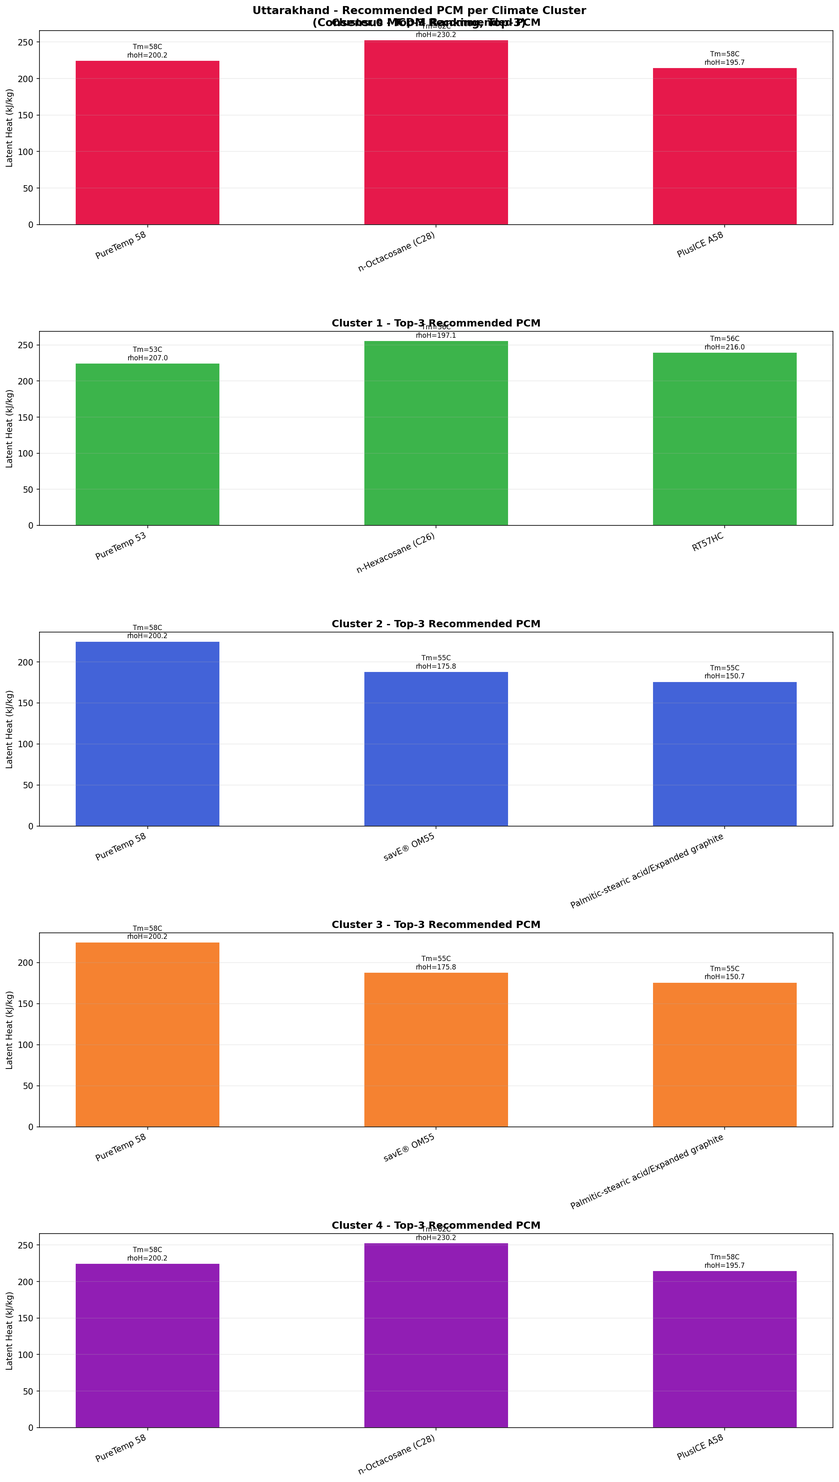
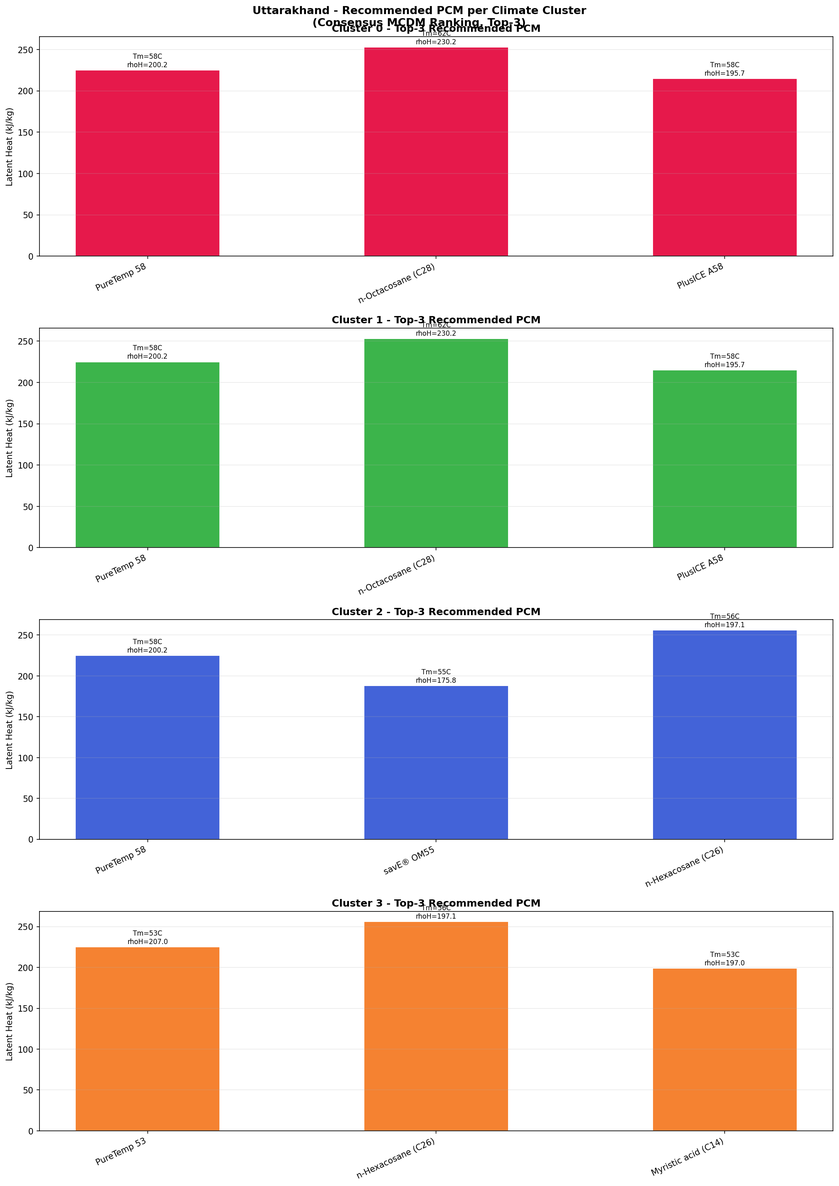
chore(plots): refresh Uttarakhand recommended PCM summary plot

diff --git a/public/plots/uttarakhand/13_recommended_pcm_summary_interactive.html b/public/plots/uttarakhand/13_recommended_pcm_summary_interactive.html
@@ -6,6 +6,6 @@
 </head>
 <body>
     <div style="height:550px; width:100%;">                        <script>window.PlotlyConfig = {MathJaxConfig: 'local'};</script>
-        <script charset="utf-8" src="https://cdn.plot.ly/plotly-4.1.1.min.js" integrity="sha256-O24V1F27f8pb0glCkelh3cVHLNiHAJ5gCaVtq2aNch8=" crossorigin="anonymous"></script>                <div id="e034c705-f220-4712-8a65-266319314120" class="plotly-graph-div" style="height:100%; width:100%;"></div>            <script>                window.PLOTLYENV=window.PLOTLYENV || {};                                if (document.getElementById("e034c705-f220-4712-8a65-266319314120")) {                    Plotly.newPlot(                        "e034c705-f220-4712-8a65-266319314120",                        [{"alignmentgroup":"True","customdata":{"dtype":"f8","bdata":"AAAAAAAATUAAAAAAAAhpQJqZmZmZmck\u002fAAAAAABQmUAAAAAAAABNQAAAAAAACGlAmpmZmZmZyT8AAAAAAFCZQAAAAAAAAE1AAAAAAAAIaUCamZmZmZnJPwAAAAAAUJlAAAAAAAAATUAAAAAAAAhpQJqZmZmZmck\u002fAAAAAABQmUA=","shape":"4, 4"},"hovertemplate":"PCM=PureTemp 58\u003cbr\u003eCluster=%{x}\u003cbr\u003eLatent Heat (kJ\u002fkg)=%{y}\u003cbr\u003eTm_C=%{customdata[0]}\u003cbr\u003erho_H_MJ_m3=%{customdata[1]}\u003cbr\u003eTC_W_mK=%{customdata[2]}\u003cbr\u003ecycles_tested=%{customdata[3]}\u003cextra\u003e\u003c\u002fextra\u003e","legendgroup":"PureTemp 58","marker":{"color":"rgb(102,194,165)","pattern":{"shape":""}},"name":"PureTemp 58","offsetgroup":"PureTemp 58","orientation":"v","showlegend":true,"textposition":"auto","x":["0","2","3","4"],"xaxis":"x","y":{"dtype":"f8","bdata":"AAAAAAAgbEAAAAAAACBsQAAAAAAAIGxAAAAAAAAgbEA="},"yaxis":"y","type":"bar"},{"alignmentgroup":"True","customdata":{"dtype":"f8","bdata":"zczMzMzMTkCPwvUoXMdsQHWTGARWDtE\u002fAAAAAAC0mEDNzMzMzMxOQI\u002fC9Shcx2xAdZMYBFYO0T8AAAAAALSYQA==","shape":"2, 4"},"hovertemplate":"PCM=n-Octacosane (C28)\u003cbr\u003eCluster=%{x}\u003cbr\u003eLatent Heat (kJ\u002fkg)=%{y}\u003cbr\u003eTm_C=%{customdata[0]}\u003cbr\u003erho_H_MJ_m3=%{customdata[1]}\u003cbr\u003eTC_W_mK=%{customdata[2]}\u003cbr\u003ecycles_tested=%{customdata[3]}\u003cextra\u003e\u003c\u002fextra\u003e","legendgroup":"n-Octacosane (C28)","marker":{"color":"rgb(252,141,98)","pattern":{"shape":""}},"name":"n-Octacosane (C28)","offsetgroup":"n-Octacosane (C28)","orientation":"v","showlegend":true,"textposition":"auto","x":["0","4"],"xaxis":"x","y":{"dtype":"f8","bdata":"AAAAAACgb0AAAAAAAKBvQA=="},"yaxis":"y","type":"bar"},{"alignmentgroup":"True","customdata":{"dtype":"f8","bdata":"AAAAAAAATUDNzMzMzHRoQClcj8L1KMw\u002fAAAAAAC0mEAAAAAAAABNQM3MzMzMdGhAKVyPwvUozD8AAAAAALSYQA==","shape":"2, 4"},"hovertemplate":"PCM=PlusICE A58\u003cbr\u003eCluster=%{x}\u003cbr\u003eLatent Heat (kJ\u002fkg)=%{y}\u003cbr\u003eTm_C=%{customdata[0]}\u003cbr\u003erho_H_MJ_m3=%{customdata[1]}\u003cbr\u003eTC_W_mK=%{customdata[2]}\u003cbr\u003ecycles_tested=%{customdata[3]}\u003cextra\u003e\u003c\u002fextra\u003e","legendgroup":"PlusICE A58","marker":{"color":"rgb(141,160,203)","pattern":{"shape":""}},"name":"PlusICE A58","offsetgroup":"PlusICE A58","orientation":"v","showlegend":true,"textposition":"auto","x":["0","4"],"xaxis":"x","y":{"dtype":"f8","bdata":"AAAAAADgakAAAAAAAOBqQA=="},"yaxis":"y","type":"bar"},{"alignmentgroup":"True","customdata":{"dtype":"f8","bdata":"AAAAAACASkAAAAAAAOBpQJqZmZmZmck\u002fAAAAAABYmkA=","shape":"1, 4"},"hovertemplate":"PCM=PureTemp 53\u003cbr\u003eCluster=%{x}\u003cbr\u003eLatent Heat (kJ\u002fkg)=%{y}\u003cbr\u003eTm_C=%{customdata[0]}\u003cbr\u003erho_H_MJ_m3=%{customdata[1]}\u003cbr\u003eTC_W_mK=%{customdata[2]}\u003cbr\u003ecycles_tested=%{customdata[3]}\u003cextra\u003e\u003c\u002fextra\u003e","legendgroup":"PureTemp 53","marker":{"color":"rgb(231,138,195)","pattern":{"shape":""}},"name":"PureTemp 53","offsetgroup":"PureTemp 53","orientation":"v","showlegend":true,"textposition":"auto","x":["1"],"xaxis":"x","y":{"dtype":"f8","bdata":"AAAAAAAgbEA="},"yaxis":"y","type":"bar"},{"alignmentgroup":"True","customdata":{"dtype":"f8","bdata":"AAAAAABATECkcD0K16NoQBBYObTIds4\u002fAAAAAADwlUA=","shape":"1, 4"},"hovertemplate":"PCM=n-Hexacosane (C26)\u003cbr\u003eCluster=%{x}\u003cbr\u003eLatent Heat (kJ\u002fkg)=%{y}\u003cbr\u003eTm_C=%{customdata[0]}\u003cbr\u003erho_H_MJ_m3=%{customdata[1]}\u003cbr\u003eTC_W_mK=%{customdata[2]}\u003cbr\u003ecycles_tested=%{customdata[3]}\u003cextra\u003e\u003c\u002fextra\u003e","legendgroup":"n-Hexacosane (C26)","marker":{"color":"rgb(166,216,84)","pattern":{"shape":""}},"name":"n-Hexacosane (C26)","offsetgroup":"n-Hexacosane (C26)","orientation":"v","showlegend":true,"textposition":"auto","x":["1"],"xaxis":"x","y":{"dtype":"f8","bdata":"AAAAAAAAcEA="},"yaxis":"y","type":"bar"},{"alignmentgroup":"True","customdata":{"dtype":"f8","bdata":"AAAAAABATEAAAAAAAABrQGQ730+Nl84\u002fAAAAAADwlUA=","shape":"1, 4"},"hovertemplate":"PCM=RT57HC\u003cbr\u003eCluster=%{x}\u003cbr\u003eLatent Heat (kJ\u002fkg)=%{y}\u003cbr\u003eTm_C=%{customdata[0]}\u003cbr\u003erho_H_MJ_m3=%{customdata[1]}\u003cbr\u003eTC_W_mK=%{customdata[2]}\u003cbr\u003ecycles_tested=%{customdata[3]}\u003cextra\u003e\u003c\u002fextra\u003e","legendgroup":"RT57HC","marker":{"color":"rgb(255,217,47)","pattern":{"shape":""}},"name":"RT57HC","offsetgroup":"RT57HC","orientation":"v","showlegend":true,"textposition":"auto","x":["1"],"xaxis":"x","y":{"dtype":"f8","bdata":"AAAAAAAAbkA="},"yaxis":"y","type":"bar"},{"alignmentgroup":"True","customdata":{"dtype":"f8","bdata":"AAAAAACAS0ApXI\u002fC9fhlQKRwPQrXo8A\u002fAAAAAABAn0AAAAAAAIBLQClcj8L1+GVApHA9CtejwD8AAAAAAECfQA==","shape":"2, 4"},"hovertemplate":"PCM=savE® OM55\u003cbr\u003eCluster=%{x}\u003cbr\u003eLatent Heat (kJ\u002fkg)=%{y}\u003cbr\u003eTm_C=%{customdata[0]}\u003cbr\u003erho_H_MJ_m3=%{customdata[1]}\u003cbr\u003eTC_W_mK=%{customdata[2]}\u003cbr\u003ecycles_tested=%{customdata[3]}\u003cextra\u003e\u003c\u002fextra\u003e","legendgroup":"savE® OM55","marker":{"color":"rgb(229,196,148)","pattern":{"shape":""}},"name":"savE® OM55","offsetgroup":"savE® OM55","orientation":"v","showlegend":true,"textposition":"auto","x":["2","3"],"xaxis":"x","y":{"dtype":"f8","bdata":"AAAAAACAZ0AAAAAAAIBnQA=="},"yaxis":"y","type":"bar"},{"alignmentgroup":"True","customdata":{"dtype":"f8","bdata":"mpmZmZmZS0CiRbbz\u002fdRiQHsUrkfhesQ\u002fAAAAAABAn0CamZmZmZlLQKJFtvP91GJAexSuR+F6xD8AAAAAAECfQA==","shape":"2, 4"},"hovertemplate":"PCM=Palmitic-stearic acid\u002fExpanded graphite\u003cbr\u003eCluster=%{x}\u003cbr\u003eLatent Heat (kJ\u002fkg)=%{y}\u003cbr\u003eTm_C=%{customdata[0]}\u003cbr\u003erho_H_MJ_m3=%{customdata[1]}\u003cbr\u003eTC_W_mK=%{customdata[2]}\u003cbr\u003ecycles_tested=%{customdata[3]}\u003cextra\u003e\u003c\u002fextra\u003e","legendgroup":"Palmitic-stearic acid\u002fExpanded graphite","marker":{"color":"rgb(179,179,179)","pattern":{"shape":""}},"name":"Palmitic-stearic acid\u002fExpanded graphite","offsetgroup":"Palmitic-stearic acid\u002fExpanded graphite","orientation":"v","showlegend":true,"textposition":"auto","x":["2","3"],"xaxis":"x","y":{"dtype":"f8","bdata":"AAAAAAAAZkAAAAAAAABmQA=="},"yaxis":"y","type":"bar"}],                        {"template":{"data":{"barpolar":[{"marker":{"line":{"color":"white","width":0.5},"pattern":{"fillmode":"overlay","size":10,"solidity":0.2}},"type":"barpolar"}],"bar":[{"error_x":{"color":"#2a3f5f"},"error_y":{"color":"#2a3f5f"},"marker":{"line":{"color":"white","width":0.5},"pattern":{"fillmode":"overlay","size":10,"solidity":0.2}},"type":"bar"}],"carpet":[{"aaxis":{"endlinecolor":"#2a3f5f","gridcolor":"#C8D4E3","linecolor":"#C8D4E3","minorgridcolor":"#C8D4E3","startlinecolor":"#2a3f5f"},"baxis":{"endlinecolor":"#2a3f5f","gridcolor":"#C8D4E3","linecolor":"#C8D4E3","minorgridcolor":"#C8D4E3","startlinecolor":"#2a3f5f"},"type":"carpet"}],"choropleth":[{"colorbar":{"outlinewidth":0,"ticks":""},"type":"choropleth"}],"contourcarpet":[{"colorbar":{"outlinewidth":0,"ticks":""},"type":"contourcarpet"}],"contour":[{"colorbar":{"outlinewidth":0,"ticks":""},"colorscale":[[0.0,"#0d0887"],[0.1111111111111111,"#46039f"],[0.2222222222222222,"#7201a8"],[0.3333333333333333,"#9c179e"],[0.4444444444444444,"#bd3786"],[0.5555555555555556,"#d8576b"],[0.6666666666666666,"#ed7953"],[0.7777777777777778,"#fb9f3a"],[0.8888888888888888,"#fdca26"],[1.0,"#f0f921"]],"type":"contour"}],"heatmap":[{"colorbar":{"outlinewidth":0,"ticks":""},"colorscale":[[0.0,"#0d0887"],[0.1111111111111111,"#46039f"],[0.2222222222222222,"#7201a8"],[0.3333333333333333,"#9c179e"],[0.4444444444444444,"#bd3786"],[0.5555555555555556,"#d8576b"],[0.6666666666666666,"#ed7953"],[0.7777777777777778,"#fb9f3a"],[0.8888888888888888,"#fdca26"],[1.0,"#f0f921"]],"type":"heatmap"}],"histogram2dcontour":[{"colorbar":{"outlinewidth":0,"ticks":""},"colorscale":[[0.0,"#0d0887"],[0.1111111111111111,"#46039f"],[0.2222222222222222,"#7201a8"],[0.3333333333333333,"#9c179e"],[0.4444444444444444,"#bd3786"],[0.5555555555555556,"#d8576b"],[0.6666666666666666,"#ed7953"],[0.7777777777777778,"#fb9f3a"],[0.8888888888888888,"#fdca26"],[1.0,"#f0f921"]],"type":"histogram2dcontour"}],"histogram2d":[{"colorbar":{"outlinewidth":0,"ticks":""},"colorscale":[[0.0,"#0d0887"],[0.1111111111111111,"#46039f"],[0.2222222222222222,"#7201a8"],[0.3333333333333333,"#9c179e"],[0.4444444444444444,"#bd3786"],[0.5555555555555556,"#d8576b"],[0.6666666666666666,"#ed7953"],[0.7777777777777778,"#fb9f3a"],[0.8888888888888888,"#fdca26"],[1.0,"#f0f921"]],"type":"histogram2d"}],"histogram":[{"marker":{"pattern":{"fillmode":"overlay","size":10,"solidity":0.2}},"type":"histogram"}],"mesh3d":[{"colorbar":{"outlinewidth":0,"ticks":""},"type":"mesh3d"}],"parcoords":[{"line":{"colorbar":{"outlinewidth":0,"ticks":""}},"type":"parcoords"}],"pie":[{"automargin":true,"type":"pie"}],"scatter3d":[{"line":{"colorbar":{"outlinewidth":0,"ticks":""}},"marker":{"colorbar":{"outlinewidth":0,"ticks":""}},"type":"scatter3d"}],"scattercarpet":[{"marker":{"colorbar":{"outlinewidth":0,"ticks":""}},"type":"scattercarpet"}],"scattergeo":[{"marker":{"colorbar":{"outlinewidth":0,"ticks":""}},"type":"scattergeo"}],"scattergl":[{"marker":{"colorbar":{"outlinewidth":0,"ticks":""}},"type":"scattergl"}],"scattermap":[{"marker":{"colorbar":{"outlinewidth":0,"ticks":""}},"type":"scattermap"}],"scatterpolargl":[{"marker":{"colorbar":{"outlinewidth":0,"ticks":""}},"type":"scatterpolargl"}],"scatterpolar":[{"marker":{"colorbar":{"outlinewidth":0,"ticks":""}},"type":"scatterpolar"}],"scatter":[{"fillpattern":{"fillmode":"overlay","size":10,"solidity":0.2},"type":"scatter"}],"scatterternary":[{"marker":{"colorbar":{"outlinewidth":0,"ticks":""}},"type":"scatterternary"}],"surface":[{"colorbar":{"outlinewidth":0,"ticks":""},"colorscale":[[0.0,"#0d0887"],[0.1111111111111111,"#46039f"],[0.2222222222222222,"#7201a8"],[0.3333333333333333,"#9c179e"],[0.4444444444444444,"#bd3786"],[0.5555555555555556,"#d8576b"],[0.6666666666666666,"#ed7953"],[0.7777777777777778,"#fb9f3a"],[0.8888888888888888,"#fdca26"],[1.0,"#f0f921"]],"type":"surface"}],"table":[{"cells":{"fill":{"color":"#EBF0F8"},"line":{"color":"white"}},"header":{"fill":{"color":"#C8D4E3"},"line":{"color":"white"}},"type":"table"}]},"layout":{"annotationdefaults":{"arrowcolor":"#2a3f5f","arrowhead":0,"arrowwidth":1},"autotypenumbers":"strict","coloraxis":{"colorbar":{"outlinewidth":0,"ticks":""}},"colorscale":{"diverging":[[0,"#8e0152"],[0.1,"#c51b7d"],[0.2,"#de77ae"],[0.3,"#f1b6da"],[0.4,"#fde0ef"],[0.5,"#f7f7f7"],[0.6,"#e6f5d0"],[0.7,"#b8e186"],[0.8,"#7fbc41"],[0.9,"#4d9221"],[1,"#276419"]],"sequential":[[0.0,"#0d0887"],[0.1111111111111111,"#46039f"],[0.2222222222222222,"#7201a8"],[0.3333333333333333,"#9c179e"],[0.4444444444444444,"#bd3786"],[0.5555555555555556,"#d8576b"],[0.6666666666666666,"#ed7953"],[0.7777777777777778,"#fb9f3a"],[0.8888888888888888,"#fdca26"],[1.0,"#f0f921"]],"sequentialminus":[[0.0,"#0d0887"],[0.1111111111111111,"#46039f"],[0.2222222222222222,"#7201a8"],[0.3333333333333333,"#9c179e"],[0.4444444444444444,"#bd3786"],[0.5555555555555556,"#d8576b"],[0.6666666666666666,"#ed7953"],[0.7777777777777778,"#fb9f3a"],[0.8888888888888888,"#fdca26"],[1.0,"#f0f921"]]},"colorway":["#636efa","#EF553B","#00cc96","#ab63fa","#FFA15A","#19d3f3","#FF6692","#B6E880","#FF97FF","#FECB52"],"font":{"color":"#2a3f5f"},"geo":{"bgcolor":"white","lakecolor":"white","landcolor":"white","showlakes":true,"showland":true,"subunitcolor":"#C8D4E3"},"hoverlabel":{"align":"left"},"hovermode":"closest","paper_bgcolor":"white","plot_bgcolor":"white","polar":{"angularaxis":{"gridcolor":"#EBF0F8","linecolor":"#EBF0F8","ticks":""},"bgcolor":"white","radialaxis":{"gridcolor":"#EBF0F8","linecolor":"#EBF0F8","ticks":""}},"scene":{"xaxis":{"backgroundcolor":"white","gridcolor":"#DFE8F3","gridwidth":2,"linecolor":"#EBF0F8","showbackground":true,"ticks":"","zerolinecolor":"#EBF0F8"},"yaxis":{"backgroundcolor":"white","gridcolor":"#DFE8F3","gridwidth":2,"linecolor":"#EBF0F8","showbackground":true,"ticks":"","zerolinecolor":"#EBF0F8"},"zaxis":{"backgroundcolor":"white","gridcolor":"#DFE8F3","gridwidth":2,"linecolor":"#EBF0F8","showbackground":true,"ticks":"","zerolinecolor":"#EBF0F8"}},"shapedefaults":{"line":{"color":"#2a3f5f"}},"ternary":{"aaxis":{"gridcolor":"#DFE8F3","linecolor":"#A2B1C6","ticks":""},"baxis":{"gridcolor":"#DFE8F3","linecolor":"#A2B1C6","ticks":""},"bgcolor":"white","caxis":{"gridcolor":"#DFE8F3","linecolor":"#A2B1C6","ticks":""}},"title":{"x":0.05},"xaxis":{"automargin":true,"gridcolor":"#EBF0F8","linecolor":"#EBF0F8","ticks":"","title":{"standoff":15},"zerolinecolor":"#EBF0F8","zerolinewidth":2},"yaxis":{"automargin":true,"gridcolor":"#EBF0F8","linecolor":"#EBF0F8","ticks":"","title":{"standoff":15},"zerolinecolor":"#EBF0F8","zerolinewidth":2}}},"xaxis":{"anchor":"y","domain":[0.0,1.0],"title":{"text":"Cluster"}},"yaxis":{"anchor":"x","domain":[0.0,1.0],"title":{"text":"Latent Heat (kJ\u002fkg)"}},"legend":{"title":{"text":"PCM"},"tracegroupgap":0},"title":{"text":"Uttarakhand - Recommended PCM by Climate Cluster (Top-3, Consensus Rank)"},"barmode":"group","height":550},                        {"responsive": true}                    )                };            </script>        </div>
+        <script charset="utf-8" src="https://cdn.plot.ly/plotly-4.0.0.min.js" integrity="sha256-FEYfO0yRyLtZCpnW0Dw/0DHKQO7Afrq3ml4+rBB818o=" crossorigin="anonymous"></script>                <div id="29ec0fc4-1b1f-4ab8-bfd5-f39e5bf95329" class="plotly-graph-div" style="height:100%; width:100%;"></div>            <script>                window.PLOTLYENV=window.PLOTLYENV || {};                                if (document.getElementById("29ec0fc4-1b1f-4ab8-bfd5-f39e5bf95329")) {                    Plotly.newPlot(                        "29ec0fc4-1b1f-4ab8-bfd5-f39e5bf95329",                        [{"alignmentgroup":"True","customdata":{"dtype":"f8","bdata":"AAAAAAAATUAAAAAAAAhpQJqZmZmZmck\u002fAAAAAABQmUAAAAAAAABNQAAAAAAACGlAmpmZmZmZyT8AAAAAAFCZQAAAAAAAAE1AAAAAAAAIaUCamZmZmZnJPwAAAAAAUJlA","shape":"3, 4"},"hovertemplate":"PCM=PureTemp 58\u003cbr\u003eCluster=%{x}\u003cbr\u003eLatent Heat (kJ\u002fkg)=%{y}\u003cbr\u003eTm_C=%{customdata[0]}\u003cbr\u003erho_H_MJ_m3=%{customdata[1]}\u003cbr\u003eTC_W_mK=%{customdata[2]}\u003cbr\u003ecycles_tested=%{customdata[3]}\u003cextra\u003e\u003c\u002fextra\u003e","legendgroup":"PureTemp 58","marker":{"color":"rgb(102,194,165)","pattern":{"shape":""}},"name":"PureTemp 58","offsetgroup":"PureTemp 58","orientation":"v","showlegend":true,"textposition":"auto","x":["0","1","2"],"xaxis":"x","y":{"dtype":"f8","bdata":"AAAAAAAgbEAAAAAAACBsQAAAAAAAIGxA"},"yaxis":"y","type":"bar"},{"alignmentgroup":"True","customdata":{"dtype":"f8","bdata":"zczMzMzMTkCPwvUoXMdsQHWTGARWDtE\u002fAAAAAAC0mEDNzMzMzMxOQI\u002fC9Shcx2xAdZMYBFYO0T8AAAAAALSYQA==","shape":"2, 4"},"hovertemplate":"PCM=n-Octacosane (C28)\u003cbr\u003eCluster=%{x}\u003cbr\u003eLatent Heat (kJ\u002fkg)=%{y}\u003cbr\u003eTm_C=%{customdata[0]}\u003cbr\u003erho_H_MJ_m3=%{customdata[1]}\u003cbr\u003eTC_W_mK=%{customdata[2]}\u003cbr\u003ecycles_tested=%{customdata[3]}\u003cextra\u003e\u003c\u002fextra\u003e","legendgroup":"n-Octacosane (C28)","marker":{"color":"rgb(252,141,98)","pattern":{"shape":""}},"name":"n-Octacosane (C28)","offsetgroup":"n-Octacosane (C28)","orientation":"v","showlegend":true,"textposition":"auto","x":["0","1"],"xaxis":"x","y":{"dtype":"f8","bdata":"AAAAAACgb0AAAAAAAKBvQA=="},"yaxis":"y","type":"bar"},{"alignmentgroup":"True","customdata":{"dtype":"f8","bdata":"AAAAAAAATUDNzMzMzHRoQClcj8L1KMw\u002fAAAAAAC0mEAAAAAAAABNQM3MzMzMdGhAKVyPwvUozD8AAAAAALSYQA==","shape":"2, 4"},"hovertemplate":"PCM=PlusICE A58\u003cbr\u003eCluster=%{x}\u003cbr\u003eLatent Heat (kJ\u002fkg)=%{y}\u003cbr\u003eTm_C=%{customdata[0]}\u003cbr\u003erho_H_MJ_m3=%{customdata[1]}\u003cbr\u003eTC_W_mK=%{customdata[2]}\u003cbr\u003ecycles_tested=%{customdata[3]}\u003cextra\u003e\u003c\u002fextra\u003e","legendgroup":"PlusICE A58","marker":{"color":"rgb(141,160,203)","pattern":{"shape":""}},"name":"PlusICE A58","offsetgroup":"PlusICE A58","orientation":"v","showlegend":true,"textposition":"auto","x":["0","1"],"xaxis":"x","y":{"dtype":"f8","bdata":"AAAAAADgakAAAAAAAOBqQA=="},"yaxis":"y","type":"bar"},{"alignmentgroup":"True","customdata":{"dtype":"f8","bdata":"AAAAAACAS0ApXI\u002fC9fhlQKRwPQrXo8A\u002fAAAAAABAn0A=","shape":"1, 4"},"hovertemplate":"PCM=savE® OM55\u003cbr\u003eCluster=%{x}\u003cbr\u003eLatent Heat (kJ\u002fkg)=%{y}\u003cbr\u003eTm_C=%{customdata[0]}\u003cbr\u003erho_H_MJ_m3=%{customdata[1]}\u003cbr\u003eTC_W_mK=%{customdata[2]}\u003cbr\u003ecycles_tested=%{customdata[3]}\u003cextra\u003e\u003c\u002fextra\u003e","legendgroup":"savE® OM55","marker":{"color":"rgb(231,138,195)","pattern":{"shape":""}},"name":"savE® OM55","offsetgroup":"savE® OM55","orientation":"v","showlegend":true,"textposition":"auto","x":["2"],"xaxis":"x","y":{"dtype":"f8","bdata":"AAAAAACAZ0A="},"yaxis":"y","type":"bar"},{"alignmentgroup":"True","customdata":{"dtype":"f8","bdata":"AAAAAABATECkcD0K16NoQBBYObTIds4\u002fAAAAAADwlUAAAAAAAEBMQKRwPQrXo2hAEFg5tMh2zj8AAAAAAPCVQA==","shape":"2, 4"},"hovertemplate":"PCM=n-Hexacosane (C26)\u003cbr\u003eCluster=%{x}\u003cbr\u003eLatent Heat (kJ\u002fkg)=%{y}\u003cbr\u003eTm_C=%{customdata[0]}\u003cbr\u003erho_H_MJ_m3=%{customdata[1]}\u003cbr\u003eTC_W_mK=%{customdata[2]}\u003cbr\u003ecycles_tested=%{customdata[3]}\u003cextra\u003e\u003c\u002fextra\u003e","legendgroup":"n-Hexacosane (C26)","marker":{"color":"rgb(166,216,84)","pattern":{"shape":""}},"name":"n-Hexacosane (C26)","offsetgroup":"n-Hexacosane (C26)","orientation":"v","showlegend":true,"textposition":"auto","x":["2","3"],"xaxis":"x","y":{"dtype":"f8","bdata":"AAAAAAAAcEAAAAAAAABwQA=="},"yaxis":"y","type":"bar"},{"alignmentgroup":"True","customdata":{"dtype":"f8","bdata":"AAAAAACASkAAAAAAAOBpQJqZmZmZmck\u002fAAAAAABYmkA=","shape":"1, 4"},"hovertemplate":"PCM=PureTemp 53\u003cbr\u003eCluster=%{x}\u003cbr\u003eLatent Heat (kJ\u002fkg)=%{y}\u003cbr\u003eTm_C=%{customdata[0]}\u003cbr\u003erho_H_MJ_m3=%{customdata[1]}\u003cbr\u003eTC_W_mK=%{customdata[2]}\u003cbr\u003ecycles_tested=%{customdata[3]}\u003cextra\u003e\u003c\u002fextra\u003e","legendgroup":"PureTemp 53","marker":{"color":"rgb(255,217,47)","pattern":{"shape":""}},"name":"PureTemp 53","offsetgroup":"PureTemp 53","orientation":"v","showlegend":true,"textposition":"auto","x":["3"],"xaxis":"x","y":{"dtype":"f8","bdata":"AAAAAAAgbEA="},"yaxis":"y","type":"bar"},{"alignmentgroup":"True","customdata":{"dtype":"f8","bdata":"AAAAAACASkC4HoXrUaBoQGnn+6nx0s0\u002fAAAAAABYmkA=","shape":"1, 4"},"hovertemplate":"PCM=Myristic acid (C14)\u003cbr\u003eCluster=%{x}\u003cbr\u003eLatent Heat (kJ\u002fkg)=%{y}\u003cbr\u003eTm_C=%{customdata[0]}\u003cbr\u003erho_H_MJ_m3=%{customdata[1]}\u003cbr\u003eTC_W_mK=%{customdata[2]}\u003cbr\u003ecycles_tested=%{customdata[3]}\u003cextra\u003e\u003c\u002fextra\u003e","legendgroup":"Myristic acid (C14)","marker":{"color":"rgb(229,196,148)","pattern":{"shape":""}},"name":"Myristic acid (C14)","offsetgroup":"Myristic acid (C14)","orientation":"v","showlegend":true,"textposition":"auto","x":["3"],"xaxis":"x","y":{"dtype":"f8","bdata":"AAAAAADgaEA="},"yaxis":"y","type":"bar"}],                        {"template":{"data":{"barpolar":[{"marker":{"line":{"color":"white","width":0.5},"pattern":{"fillmode":"overlay","size":10,"solidity":0.2}},"type":"barpolar"}],"bar":[{"error_x":{"color":"#2a3f5f"},"error_y":{"color":"#2a3f5f"},"marker":{"line":{"color":"white","width":0.5},"pattern":{"fillmode":"overlay","size":10,"solidity":0.2}},"type":"bar"}],"carpet":[{"aaxis":{"endlinecolor":"#2a3f5f","gridcolor":"#C8D4E3","linecolor":"#C8D4E3","minorgridcolor":"#C8D4E3","startlinecolor":"#2a3f5f"},"baxis":{"endlinecolor":"#2a3f5f","gridcolor":"#C8D4E3","linecolor":"#C8D4E3","minorgridcolor":"#C8D4E3","startlinecolor":"#2a3f5f"},"type":"carpet"}],"choropleth":[{"colorbar":{"outlinewidth":0,"ticks":""},"type":"choropleth"}],"contourcarpet":[{"colorbar":{"outlinewidth":0,"ticks":""},"type":"contourcarpet"}],"contour":[{"colorbar":{"outlinewidth":0,"ticks":""},"colorscale":[[0.0,"#0d0887"],[0.1111111111111111,"#46039f"],[0.2222222222222222,"#7201a8"],[0.3333333333333333,"#9c179e"],[0.4444444444444444,"#bd3786"],[0.5555555555555556,"#d8576b"],[0.6666666666666666,"#ed7953"],[0.7777777777777778,"#fb9f3a"],[0.8888888888888888,"#fdca26"],[1.0,"#f0f921"]],"type":"contour"}],"heatmap":[{"colorbar":{"outlinewidth":0,"ticks":""},"colorscale":[[0.0,"#0d0887"],[0.1111111111111111,"#46039f"],[0.2222222222222222,"#7201a8"],[0.3333333333333333,"#9c179e"],[0.4444444444444444,"#bd3786"],[0.5555555555555556,"#d8576b"],[0.6666666666666666,"#ed7953"],[0.7777777777777778,"#fb9f3a"],[0.8888888888888888,"#fdca26"],[1.0,"#f0f921"]],"type":"heatmap"}],"histogram2dcontour":[{"colorbar":{"outlinewidth":0,"ticks":""},"colorscale":[[0.0,"#0d0887"],[0.1111111111111111,"#46039f"],[0.2222222222222222,"#7201a8"],[0.3333333333333333,"#9c179e"],[0.4444444444444444,"#bd3786"],[0.5555555555555556,"#d8576b"],[0.6666666666666666,"#ed7953"],[0.7777777777777778,"#fb9f3a"],[0.8888888888888888,"#fdca26"],[1.0,"#f0f921"]],"type":"histogram2dcontour"}],"histogram2d":[{"colorbar":{"outlinewidth":0,"ticks":""},"colorscale":[[0.0,"#0d0887"],[0.1111111111111111,"#46039f"],[0.2222222222222222,"#7201a8"],[0.3333333333333333,"#9c179e"],[0.4444444444444444,"#bd3786"],[0.5555555555555556,"#d8576b"],[0.6666666666666666,"#ed7953"],[0.7777777777777778,"#fb9f3a"],[0.8888888888888888,"#fdca26"],[1.0,"#f0f921"]],"type":"histogram2d"}],"histogram":[{"marker":{"pattern":{"fillmode":"overlay","size":10,"solidity":0.2}},"type":"histogram"}],"mesh3d":[{"colorbar":{"outlinewidth":0,"ticks":""},"type":"mesh3d"}],"parcoords":[{"line":{"colorbar":{"outlinewidth":0,"ticks":""}},"type":"parcoords"}],"pie":[{"automargin":true,"type":"pie"}],"scatter3d":[{"line":{"colorbar":{"outlinewidth":0,"ticks":""}},"marker":{"colorbar":{"outlinewidth":0,"ticks":""}},"type":"scatter3d"}],"scattercarpet":[{"marker":{"colorbar":{"outlinewidth":0,"ticks":""}},"type":"scattercarpet"}],"scattergeo":[{"marker":{"colorbar":{"outlinewidth":0,"ticks":""}},"type":"scattergeo"}],"scattergl":[{"marker":{"colorbar":{"outlinewidth":0,"ticks":""}},"type":"scattergl"}],"scattermap":[{"marker":{"colorbar":{"outlinewidth":0,"ticks":""}},"type":"scattermap"}],"scatterpolargl":[{"marker":{"colorbar":{"outlinewidth":0,"ticks":""}},"type":"scatterpolargl"}],"scatterpolar":[{"marker":{"colorbar":{"outlinewidth":0,"ticks":""}},"type":"scatterpolar"}],"scatter":[{"fillpattern":{"fillmode":"overlay","size":10,"solidity":0.2},"type":"scatter"}],"scatterternary":[{"marker":{"colorbar":{"outlinewidth":0,"ticks":""}},"type":"scatterternary"}],"surface":[{"colorbar":{"outlinewidth":0,"ticks":""},"colorscale":[[0.0,"#0d0887"],[0.1111111111111111,"#46039f"],[0.2222222222222222,"#7201a8"],[0.3333333333333333,"#9c179e"],[0.4444444444444444,"#bd3786"],[0.5555555555555556,"#d8576b"],[0.6666666666666666,"#ed7953"],[0.7777777777777778,"#fb9f3a"],[0.8888888888888888,"#fdca26"],[1.0,"#f0f921"]],"type":"surface"}],"table":[{"cells":{"fill":{"color":"#EBF0F8"},"line":{"color":"white"}},"header":{"fill":{"color":"#C8D4E3"},"line":{"color":"white"}},"type":"table"}]},"layout":{"annotationdefaults":{"arrowcolor":"#2a3f5f","arrowhead":0,"arrowwidth":1},"autotypenumbers":"strict","coloraxis":{"colorbar":{"outlinewidth":0,"ticks":""}},"colorscale":{"diverging":[[0,"#8e0152"],[0.1,"#c51b7d"],[0.2,"#de77ae"],[0.3,"#f1b6da"],[0.4,"#fde0ef"],[0.5,"#f7f7f7"],[0.6,"#e6f5d0"],[0.7,"#b8e186"],[0.8,"#7fbc41"],[0.9,"#4d9221"],[1,"#276419"]],"sequential":[[0.0,"#0d0887"],[0.1111111111111111,"#46039f"],[0.2222222222222222,"#7201a8"],[0.3333333333333333,"#9c179e"],[0.4444444444444444,"#bd3786"],[0.5555555555555556,"#d8576b"],[0.6666666666666666,"#ed7953"],[0.7777777777777778,"#fb9f3a"],[0.8888888888888888,"#fdca26"],[1.0,"#f0f921"]],"sequentialminus":[[0.0,"#0d0887"],[0.1111111111111111,"#46039f"],[0.2222222222222222,"#7201a8"],[0.3333333333333333,"#9c179e"],[0.4444444444444444,"#bd3786"],[0.5555555555555556,"#d8576b"],[0.6666666666666666,"#ed7953"],[0.7777777777777778,"#fb9f3a"],[0.8888888888888888,"#fdca26"],[1.0,"#f0f921"]]},"colorway":["#636efa","#EF553B","#00cc96","#ab63fa","#FFA15A","#19d3f3","#FF6692","#B6E880","#FF97FF","#FECB52"],"font":{"color":"#2a3f5f"},"geo":{"bgcolor":"white","lakecolor":"white","landcolor":"white","showlakes":true,"showland":true,"subunitcolor":"#C8D4E3"},"hoverlabel":{"align":"left"},"hovermode":"closest","paper_bgcolor":"white","plot_bgcolor":"white","polar":{"angularaxis":{"gridcolor":"#EBF0F8","linecolor":"#EBF0F8","ticks":""},"bgcolor":"white","radialaxis":{"gridcolor":"#EBF0F8","linecolor":"#EBF0F8","ticks":""}},"scene":{"xaxis":{"backgroundcolor":"white","gridcolor":"#DFE8F3","gridwidth":2,"linecolor":"#EBF0F8","showbackground":true,"ticks":"","zerolinecolor":"#EBF0F8"},"yaxis":{"backgroundcolor":"white","gridcolor":"#DFE8F3","gridwidth":2,"linecolor":"#EBF0F8","showbackground":true,"ticks":"","zerolinecolor":"#EBF0F8"},"zaxis":{"backgroundcolor":"white","gridcolor":"#DFE8F3","gridwidth":2,"linecolor":"#EBF0F8","showbackground":true,"ticks":"","zerolinecolor":"#EBF0F8"}},"shapedefaults":{"line":{"color":"#2a3f5f"}},"ternary":{"aaxis":{"gridcolor":"#DFE8F3","linecolor":"#A2B1C6","ticks":""},"baxis":{"gridcolor":"#DFE8F3","linecolor":"#A2B1C6","ticks":""},"bgcolor":"white","caxis":{"gridcolor":"#DFE8F3","linecolor":"#A2B1C6","ticks":""}},"title":{"x":0.05},"xaxis":{"automargin":true,"gridcolor":"#EBF0F8","linecolor":"#EBF0F8","ticks":"","title":{"standoff":15},"zerolinecolor":"#EBF0F8","zerolinewidth":2},"yaxis":{"automargin":true,"gridcolor":"#EBF0F8","linecolor":"#EBF0F8","ticks":"","title":{"standoff":15},"zerolinecolor":"#EBF0F8","zerolinewidth":2}}},"xaxis":{"anchor":"y","domain":[0.0,1.0],"title":{"text":"Cluster"}},"yaxis":{"anchor":"x","domain":[0.0,1.0],"title":{"text":"Latent Heat (kJ\u002fkg)"}},"legend":{"title":{"text":"PCM"},"tracegroupgap":0},"title":{"text":"Uttarakhand - Recommended PCM by Climate Cluster (Top-3, Consensus Rank)"},"barmode":"group","height":550},                        {"responsive": true}                    )                };            </script>        </div>
 </body>
 </html>
